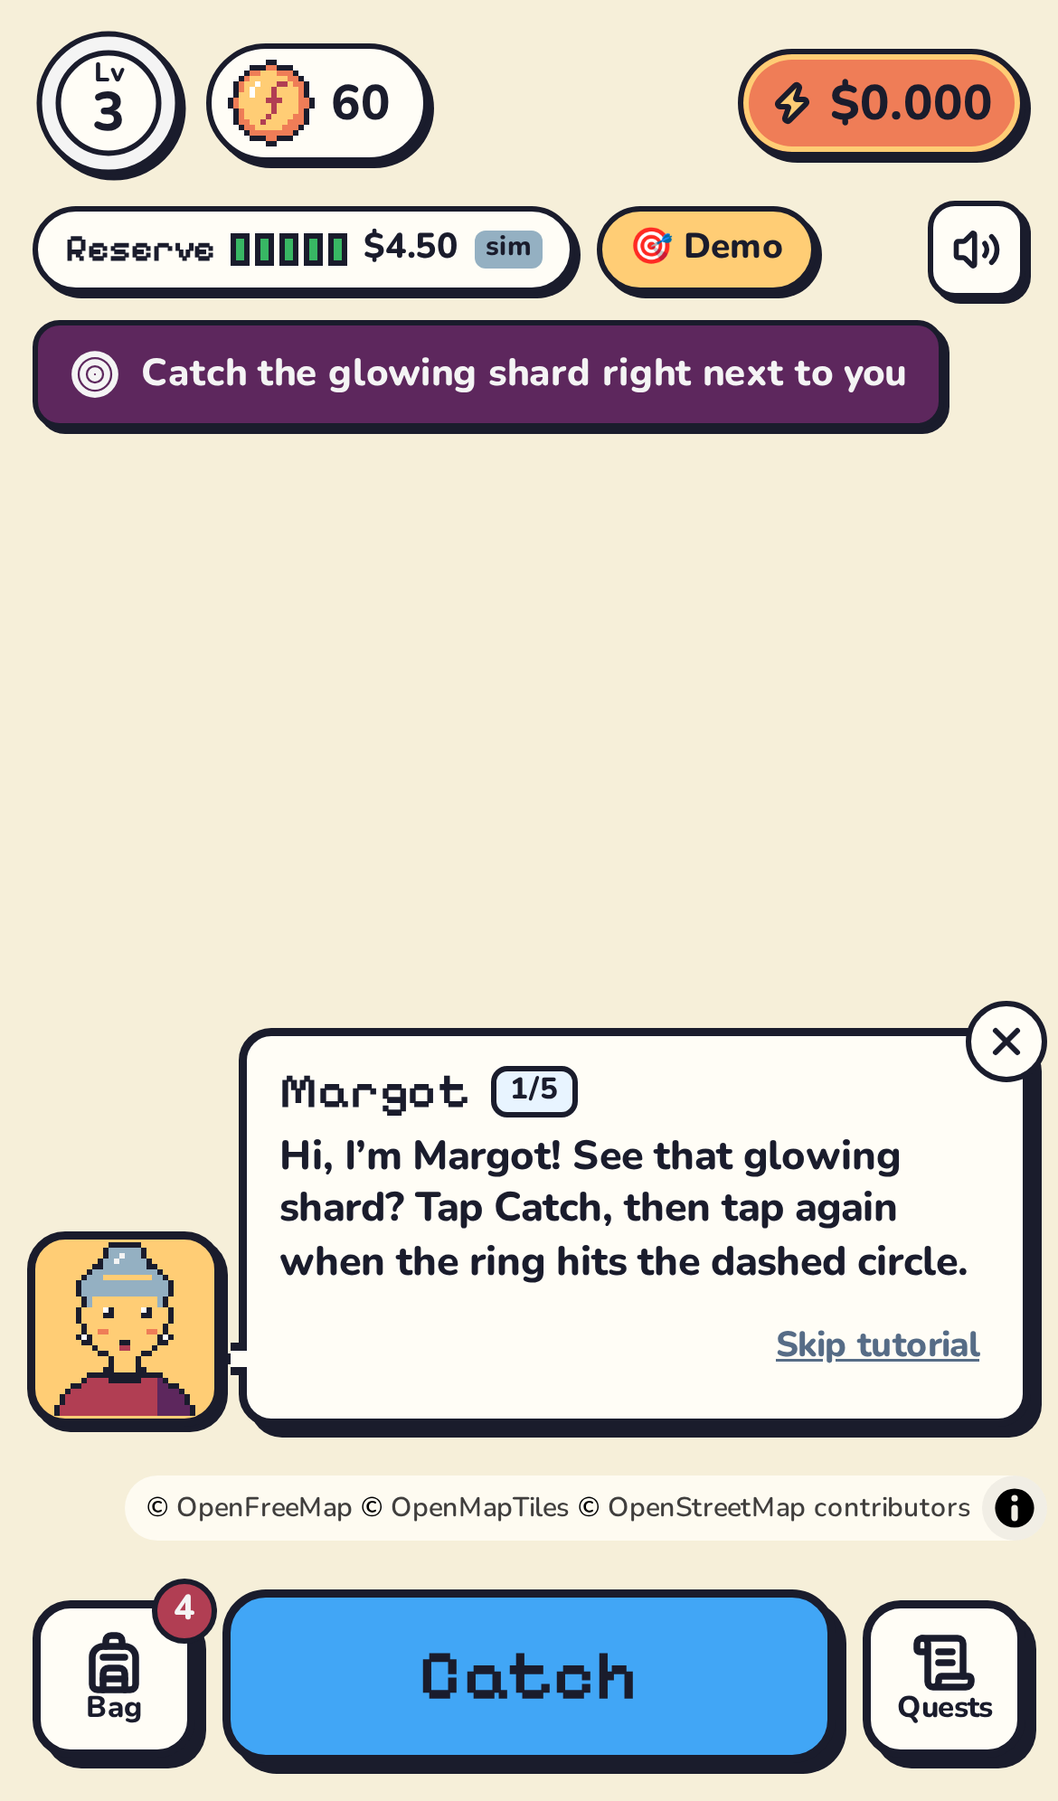
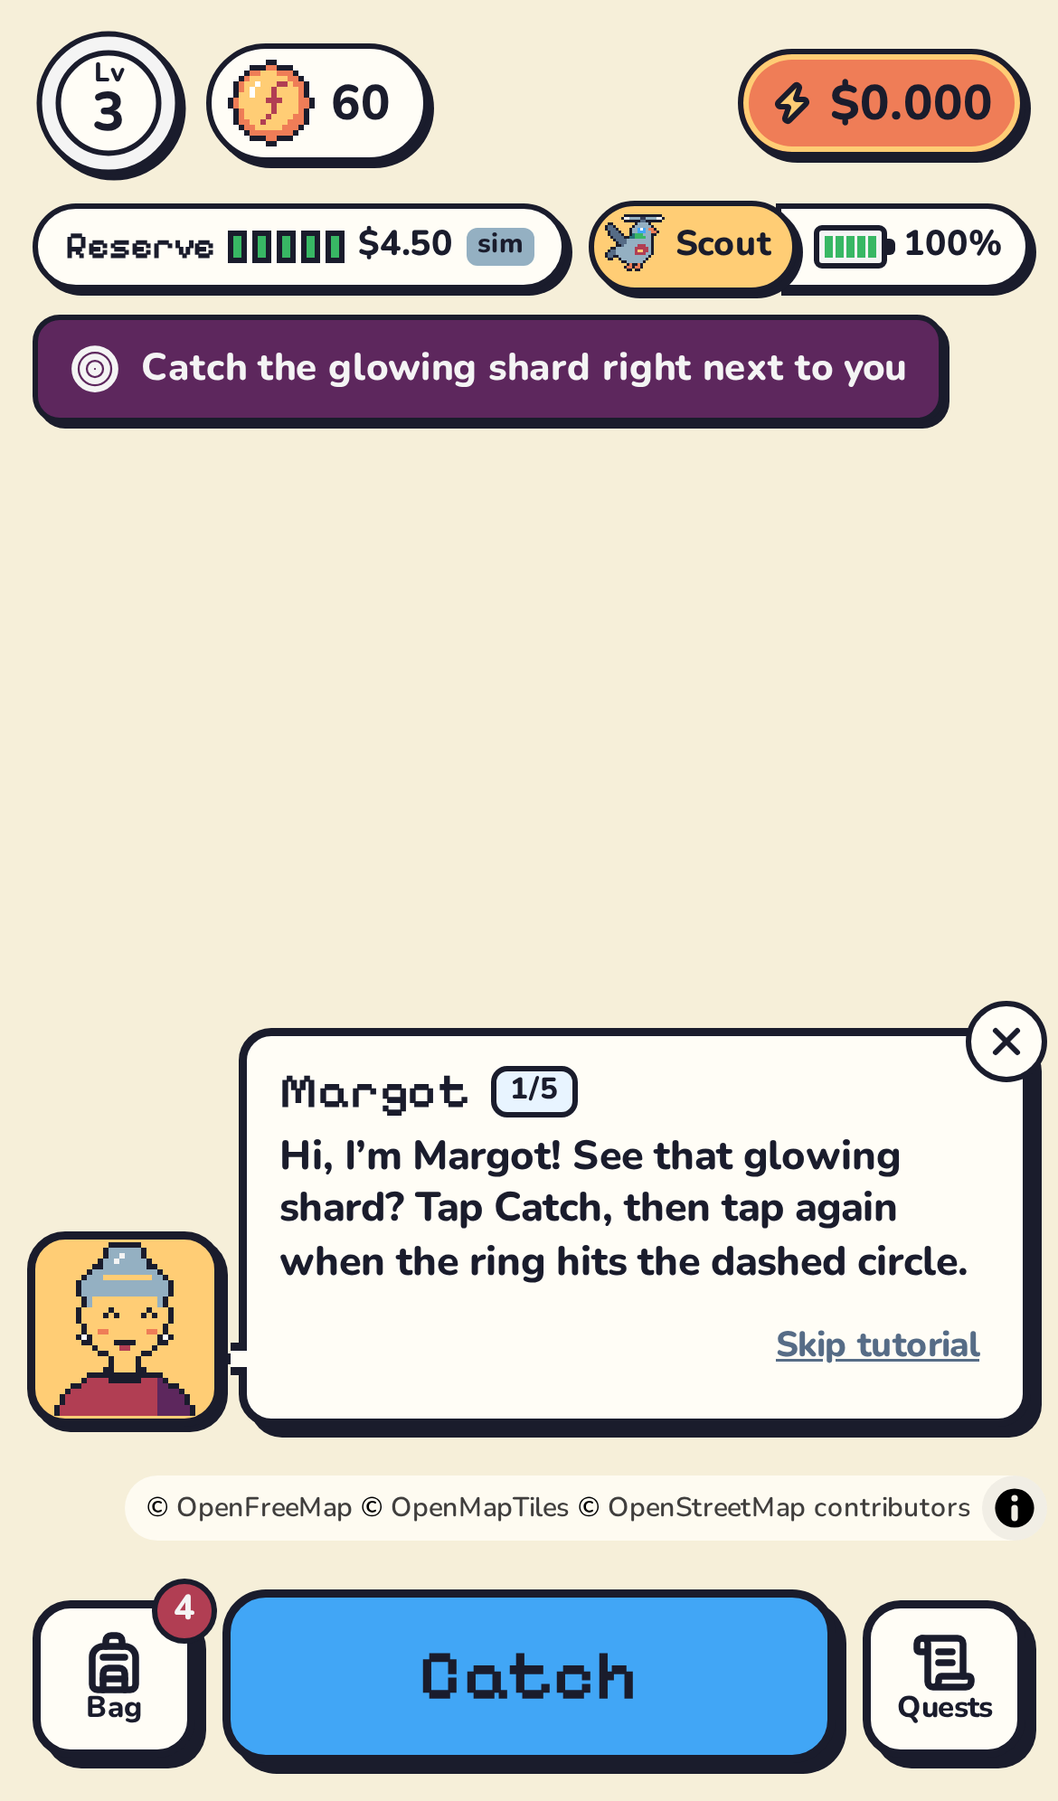
Remote Scout : HUD batterie + badge, Splash à deux modes, Dash ; e2e anywhere.spec (Lisbonne procédurale, batterie), E2E_PORT ; docs et captures

Changed region(s): [[0.0308, 0.0934, 0.9846, 0.249]]

diff --git a/e2e/anywhere.spec.ts b/e2e/anywhere.spec.ts
@@ -1,0 +1,125 @@
+// Monde « partout » et Remote Scout.
+// 1. Joueur GPS à Lisbonne : Overpass injoignable (config e2e) → quartier procédural généré en fond (« Scouting… »),
+//    puis capture et vente chez un marchand généré.
+// 2. Remote Scout : la batterie se vide (Dash), le serveur refuse le vol de trop, le Scout est cloué au sol, puis repart.
+import { offsetM } from '@tokengo/shared';
+import { proceduralRegion, regionOf } from '../apps/server/src/game/worldgen.ts';
+import { expect, test, drag, open, pageErrors, shot, startGuest, tapOnTarget, tg, walk, type TG } from './helpers.ts';
+
+const LISBON = { lat: 38.7107, lng: -9.1365 };
+// repli procédural déterministe : on démarre 10 m au sud d'un marchand généré (pas besoin de marcher en GPS simulé)
+const MARKET = proceduralRegion(regionOf(LISBON.lat, LISBON.lng)).nodes.filter((n) => n.kind === 'market')[0]!;
+const START = offsetM(MARKET, 0, -10);
+
+interface ScoutTG extends TG { scout: { battery: number; at: number; grounded: boolean } | null; world: TG['world'] & { region?: { status: string; source: string | null } } }
+const stg = (page: import('@playwright/test').Page) => tg(page) as Promise<ScoutTG>;
+
+test.describe('play anywhere (real GPS, outside Paris)', () => {
+  test.use({ geolocation: { latitude: START.lat, longitude: START.lng, accuracy: 8 } });
+
+  test('a GPS player in Lisbon: neighbourhood is scouted, then catch + sell work there', async ({ page }) => {
+    test.setTimeout(90_000);
+    const errors = pageErrors(page);
+    expect(regionOf(START.lat, START.lng)).toBe(MARKET.region);
+    await page.goto('/');
+    await expect(page.getByTestId('mode-explainer')).toContainText('Remote Scout lets you try it from your couch');
+    await page.getByTestId('play-guest').click();
+    await page.getByTestId('allow-location').click();
+    await expect(page.getByTestId('map')).toBeVisible();
+    // 1ʳᵉ réponse /api/world : génération lancée en fond
+    await expect(page.getByTestId('scouting')).toBeVisible({ timeout: 15_000 });
+    await expect(page.getByTestId('mode-badge')).toHaveText(/Walking/);
+    await shot(page, 'anywhere-01-scouting');
+    await expect(page.getByTestId('scouting')).toBeHidden({ timeout: 15_000 });
+    await page.waitForFunction(() => {
+      const s = (window as unknown as { __tg: () => ScoutTG }).__tg();
+      return s.world?.region?.status === 'ready' && s.world.nodes.some((n) => n.kind === 'market');
+    });
+    const s = await stg(page);
+    expect(s.world!.region).toMatchObject({ status: 'ready', source: 'procedural' });
+    expect(s.world!.nodes.map((n) => n.id)).toContain(MARKET.id);
+    expect(s.world!.nodes.some((n) => n.kind === 'forge')).toBe(true);
+    await expect(page.getByText(/Your neighbourhood is live/)).toBeVisible();
+    await page.waitForTimeout(1200); // tuiles de la carte (OpenFreeMap, planète entière)
+    await shot(page, 'anywhere-02-lisbon-live');
+
+    // capture : l'éclat du tutoriel apparaît à 20 m (10 m au nord du marchand) — dans le rayon d'action
+    await expect(page.getByTestId('action-btn')).toHaveText(/Catch/);
+    await page.getByTestId('action-btn').click();
+    await expect(page.getByTestId('catch-screen')).toBeVisible();
+    for (let i = 0; i < 3 && !(await page.getByTestId('catch-result').isVisible()); i++) {
+      await tapOnTarget(page);
+      await page.getByTestId('catch-result').waitFor({ timeout: 2500 }).catch(() => {});
+    }
+    await expect(page.getByTestId('catch-result')).toContainText(/\+\d+ \w+ Shard/);
+    await page.getByTestId('catch-continue').click();
+    await expect.poll(async () => (await stg(page)).me!.shards.deepseek).toBeGreaterThanOrEqual(1);
+
+    // vente au marchand généré (vrai geste de glisser)
+    const node = (await stg(page)).world!.nodes.find((n) => n.id === MARKET.id)!;
+    expect(await open(page, node.merchant!.id)).toBe(true);
+    await expect(page.getByTestId('merchant-sheet')).toBeVisible();
+    await expect(page.getByTestId('sell-deepseek')).toBeEnabled();
+    const before = (await stg(page)).me!;
+    await page.getByTestId('sell-deepseek').click();
+    await expect(page.getByTestId('trade-panel')).toBeVisible();
+    await page.waitForTimeout(700); // fin de l'animation de la feuille
+    await shot(page, 'anywhere-03-sell');
+    await drag(page, '[data-testid="slide-confirm-knob"]', 320);
+    await expect.poll(async () => (await stg(page)).me!.shards.deepseek).toBe(before.shards.deepseek - 1);
+    expect((await stg(page)).me!.flux).toBeGreaterThan(before.flux);
+    await expect(page.getByTestId('toast').first()).toContainText(/Sold 1/);
+    expect(errors).toEqual([]);
+  });
+});
+
+test('Remote Scout: the battery drains, the server grounds the scout, then it flies again', async ({ page }) => {
+  test.setTimeout(150_000);
+  const errors = pageErrors(page);
+  await page.goto('/?demo=1');
+  await expect(page.getByTestId('play-guest')).toContainText('Remote Scout');
+  await expect(page.getByTestId('play-gps')).toContainText('Play for real');
+  await page.waitForTimeout(600); // fin de l'animation d'entrée
+  await shot(page, 'scout-01-splash');
+  await startGuest(page, null);
+  await expect(page.getByTestId('mode-badge')).toHaveText(/Scout/);
+  await expect(page.getByTestId('battery-pct')).toHaveText('100%');
+  const home = (await stg(page)).position!;
+  await page.getByText('Skip tutorial').click();
+  await page.waitForTimeout(2500); // tuiles de la carte
+  await shot(page, 'scout-02-hud');
+
+  // Dash de 1,4 km (> 40 km/h) : −63 %
+  const far = offsetM(home, 0, 1400);
+  await walk(page, far);
+  await expect.poll(async () => Math.round((await stg(page)).scout!.battery)).toBeLessThanOrEqual(38);
+  // Dash vers ~5 % restants, puis le Dash de trop : refusé par le serveur, Scout au sol
+  const left = async () => { const sc = (await stg(page)).scout!; return sc.battery + ((Date.now() - sc.at) / 60_000) * 8; };
+  const near = offsetM(far, ((await left()) - 5) / 45 * 1000, 0);
+  await walk(page, near);
+  const refused = page.waitForResponse((r) => r.url().endsWith('/api/move') && r.request().method() === 'POST');
+  await page.evaluate(([lat, lng]) => (window as unknown as { __tgWalk: (a: number, b: number) => void }).__tgWalk(lat!, lng!), [offsetM(near, 0, 400).lat, offsetM(near, 0, 400).lng]);
+  const body = (await (await refused).json()) as { refused?: string; at?: { lat: number; lng: number } };
+  expect(body.refused).toBe('BATTERY_EMPTY');
+  await expect(page.getByTestId('scout-grounded')).toBeVisible();
+  await expect(page.getByTestId('scout-grounded')).toContainText(/flies again in \d:\d\d/);
+  await expect(page.getByText('Battery empty — your scout is recharging.')).toBeVisible();
+  // la position revient à la dernière position acceptée
+  await expect.poll(async () => { const p = (await stg(page)).position!; return Math.abs(p.lat - near.lat) + Math.abs(p.lng - near.lng); }).toBeLessThan(1e-6);
+  await shot(page, 'scout-03-grounded');
+  // au sol, le client ne tente même plus de voler
+  let sent = 0;
+  const count = (r: import('@playwright/test').Request) => { if (r.url().endsWith('/api/move')) sent++; };
+  page.on('request', count);
+  await page.evaluate(([lat, lng]) => (window as unknown as { __tgWalk: (a: number, b: number) => void }).__tgWalk(lat!, lng!), [offsetM(near, 30, 0).lat, offsetM(near, 30, 0).lng]);
+  await page.waitForTimeout(800);
+  page.off('request', count);
+  expect(sent).toBe(0);
+
+  // recharge (8 %/min) : repart à 10 %
+  await expect(page.getByTestId('scout-grounded')).toBeHidden({ timeout: 90_000 });
+  await walk(page, offsetM(near, 30, 0));
+  await expect.poll(async () => (await stg(page)).scout!.grounded).toBe(false);
+  await expect(page.getByTestId('battery-pct')).toHaveText(/^\d+%$/);
+  expect(errors).toEqual([]);
+});

diff --git a/apps/web/src/hud/Hud.tsx b/apps/web/src/hud/Hud.tsx
@@ -53,11 +53,15 @@ function ComboBar() {
   );
 }
 
-/** Badge de mode : Remote Scout (pigeon-drone) ou marche réelle (GPS). */
+/** Badge de mode : marche réelle (GPS) ou Remote Scout (pigeon-drone, avec sa batterie). */
 function ModeBadge({ demo }: { demo: boolean }) {
-  return demo
-    ? <Pill className={s.scoutBadge} testId="mode-badge"><Sprite def={SCOUT_SPRITE} scale={1} anim /> Scout</Pill>
-    : <Pill className={s.walkBadge} testId="mode-badge"><Footprints size={15} strokeWidth={2.8} /> Walking</Pill>;
+  if (!demo) return <Pill className={s.walkBadge} testId="mode-badge"><Footprints size={15} strokeWidth={2.8} /> Walking</Pill>;
+  return (
+    <span className={s.scoutGroup}>
+      <Pill className={s.scoutBadge} testId="mode-badge"><Sprite def={SCOUT_SPRITE} scale={1} anim /> Scout</Pill>
+      <BatteryPill />
+    </span>
+  );
 }
 
 /** Batterie du Scout (prédiction locale à 1 Hz ; le serveur reste autoritaire) + bandeau « au sol ». */
@@ -153,11 +157,11 @@ export function Hud({ onAction }: { onAction: (t: Target) => void }) {
             </Pill>
           ) : null}
           <ModeBadge demo={demo} />
-          {demo ? <BatteryPill /> : null}
           {gps === 'weak' ? <Pill className={s.warn}>Weak GPS</Pill> : null}
-          <button type="button" className={s.mute} aria-label={muted ? 'Unmute' : 'Mute'} onClick={() => { setMuted(!muted); setMutedState(!muted); }}>
+          {/* en Scout, la place va à la batterie (le son reste dans le menu) */}
+          {demo ? null : <button type="button" className={s.mute} aria-label={muted ? 'Unmute' : 'Mute'} onClick={() => { setMuted(!muted); setMutedState(!muted); }}>
             {muted ? <VolumeX size={18} strokeWidth={2.5} /> : <Volume2 size={18} strokeWidth={2.5} />}
-          </button>
+          </button>}
         </div>
         {serverDown ? <div className={s.banner}><WifiOff size={16} /> Offline — reconnecting…</div> : null}
         {inTransit ? <div className={s.banner}>In transit — catching paused</div> : null}

diff --git a/apps/web/src/hud/Hud.module.css b/apps/web/src/hud/Hud.module.css
@@ -13,18 +13,21 @@
 .fluxPill { font-size: 18px; min-height: 40px; padding: 4px 12px 4px 6px; }
 .creditPill { margin-left: auto; font-size: 18px; min-height: 40px; background: var(--orange); border-color: var(--ink); box-shadow: 0 0 0 2px var(--sun) inset, var(--shadow-hard-s); color: var(--ink); }
 
-.reserve { font-size: 13px; gap: 6px; }
+.reserve { font-size: 13px; gap: 5px; }
 .resLabel { font-family: var(--font-pixel); font-size: 14px; }
 .resBar { display: inline-flex; gap: 2px; }
 .resBar i, .comboTrack i { width: 7px; height: 12px; background: var(--white); border: 2px solid var(--ink); }
 .resBar i.on { background: var(--green); }
 .sim { font-size: 10px; background: var(--mist); border-radius: 4px; padding: 0 4px; }
-.scoutBadge { background: var(--sun); font-size: 13px; gap: 4px; padding-left: 4px; }
+.scoutGroup { display: inline-flex; align-items: center; }
+.scoutGroup > :first-child { position: relative; z-index: 1; padding: 3px 8px 3px 3px; gap: 3px; }
+.scoutGroup > :last-child { margin-left: -8px; padding-left: 12px; border-radius: 0 999px 999px 0; }
+.scoutBadge { background: var(--sun); font-size: 13px; }
 .walkBadge { background: var(--lime); font-size: 13px; gap: 4px; }
-.battery { font-size: 13px; gap: 5px; padding: 3px 8px; }
+.battery { font-size: 13px; gap: 6px; padding: 3px 9px; }
 .batBody { position: relative; display: inline-flex; gap: 1px; padding: 2px; border: 2px solid var(--ink); border-radius: 3px; background: var(--white); }
 .batBody::after { content: ''; position: absolute; right: -5px; top: 3px; width: 3px; height: 6px; background: var(--ink); border-radius: 0 2px 2px 0; }
-.batBody i { width: 4px; height: 8px; background: transparent; }
+.batBody i { width: 3px; height: 8px; background: transparent; }
 .batHigh i.on { background: var(--green); }
 .batMid i.on { background: var(--sun); }
 .batLow i.on { background: var(--berry); }

diff --git a/apps/web/src/screens/Splash.tsx b/apps/web/src/screens/Splash.tsx
@@ -84,13 +84,13 @@ export function Splash() {
   const gpsBtn = (primary: boolean) => (
     <Button variant={primary ? 'gold' : 'secondary'} size={primary ? 'l' : 'm'} block onClick={() => void play(primary ? 'auto' : 'gps')}
       loading={busy === 'gps'} testId={primary ? 'play-guest' : 'play-gps'}>
-      <Footprints size={primary ? 22 : 20} /> Play for real <small className={s.btnSub}>GPS</small>
+      <Footprints size={primary ? 22 : 20} /> Play for real · GPS
     </Button>
   );
   const scoutBtn = (primary: boolean) => (
     <Button variant={primary ? 'gold' : 'secondary'} size={primary ? 'l' : 'm'} block onClick={() => void play(primary ? 'auto' : 'demo')}
       loading={busy === 'demo'} testId={primary ? 'play-guest' : 'play-scout'}>
-      <Sprite def={SCOUT} scale={1} anim /> Remote Scout <small className={s.btnSub}>play from anywhere</small>
+      <Sprite def={SCOUT} scale={primary ? 2 : 1} anim /> Remote Scout
     </Button>
   );
 

diff --git a/scripts/collect-shots.ts b/scripts/collect-shots.ts
@@ -4,6 +4,7 @@ import { copyFileSync, existsSync, mkdirSync } from 'node:fs';
 const PICK = [
   '01-splash', '02-map', 'catch-01-lock-on', '03-catch-result', '04-relay', '05-merchant-why', 'market-02-quote',
   'market-04-closing', 'forge-02-ready', '07-credit-ticket', '08-playground', 'lab-01-flood', 'pulse-02-ticker',
+  'scout-01-splash', 'scout-02-hud', 'scout-03-grounded', 'anywhere-01-scouting', 'anywhere-02-lisbon-live',
 ];
 mkdirSync('docs-assets/shots', { recursive: true });
 let n = 0;

diff --git a/apps/web/src/screens/Splash.module.css b/apps/web/src/screens/Splash.module.css
@@ -37,6 +37,5 @@
 .locText { margin: 0; text-align: center; font-weight: 700; }
 .heroScout { position: absolute; top: -78px; right: 18px; animation: hover 1.6s ease-in-out infinite; }
 @keyframes hover { 50% { transform: translate(-6px, -10px); } }
-.btnSub { font-size: 12px; font-weight: 800; opacity: .75; margin-left: 2px; }
 .modeNow { margin: -4px 0 0; text-align: center; font-weight: 800; font-size: 14px; color: var(--slate); }
 .small b { color: var(--plum); }

diff --git a/Docs/PROGRESS.md b/Docs/PROGRESS.md
@@ -2,6 +2,23 @@
 
 Mettre à jour à la fin de chaque bloc de travail. Le plus récent en haut.
 
+## 2026-11-07 (jour) — Jouer partout + Remote Scout
+- **Fait** :
+  - **Monde « partout »** : un joueur GPS hors de Paris déclenche la génération de son quartier (cellule H3 r7) en fond — Overpass
+    (2 miroirs, budget 35 s, User-Agent poli) → même sélection que Paris (code extrait dans `game/worldgen.ts`, `paris.json` reconstruit à
+    l'identique), sinon repli procédural déterministe ; persistance `regions` (migration 005), marchands semés comme à Paris, caps
+    300/jour et 12/jour/IP. UI : carte « Scouting your neighbourhood… » puis toast « Your neighbourhood is live ». Vérifié en réel à Lisbonne
+    (823 POI → 2 forges, 8 marchands, 63 relais ; `node apps/server/scripts/region-spike.ts`).
+  - **Remote Scout** remplace Demo Walk : pigeon-coursier à hélice (nouveau sprite), batterie et plafond de vitesse vérifiés par le serveur
+    (`economy/scout.ts`, constantes `SCOUT`), badge Scout/Walking + batterie dans le HUD, « Dash » (ex-Jump) avec coût affiché, Splash à deux
+    choix (« Remote Scout » / « Play for real · GPS ») + « TokenGo is meant to be played walking — Remote Scout lets you try it from your couch ».
+    Récompenses inchangées pour les comptes démo.
+  - Tests : 131 unitaires/API (+18 : batterie, génération, fallback, caps, persistance, partie complète à Lisbonne), e2e 20/20
+    (nouveau `e2e/anywhere.spec.ts`), `E2E_PORT` pour lancer plusieurs suites en parallèle.
+- **Limites connues** : les miroirs Overpass publics sont lents (20–90 s mesurés) → au-delà de 35 s le quartier est procédural (définitif pour
+  cette région) ; une r7 en bordure de Paris compte comme « Paris » même si sa partie hors Paris est vide.
+- **Prochaine étape** : déploiement HTTPS (GPS réel), tester un vrai quartier hors Paris au téléphone.
+
 ## 2026-11-07 (nuit) — Fin du build : produit complet, vérifié
 - **Fait depuis le bloc précédent** : revue sécurité indépendante → 9 correctifs (courses sur les octrois, XFF, Judge Pool réservé aux passes démo,
   tombstones, plafonds SSE…) avec tests de régression ; 18 parcours e2e (capture, marché, PRICE_MOVED, forge, anti-triche, Lab, Pulse SSE,

diff --git a/Docs/00-INDEX.md b/Docs/00-INDEX.md
@@ -61,3 +61,8 @@ https://docs.near.ai/llms.txt · https://docs.near-intents.org/llms.txt · skill
 | 2026-11-06 | Connexion Google : seul un invité GPS est promu ; un invité démo (avec ou sans pass) repart d'un compte Google neuf | Le mode démo (kit, téléportation, pas de contrôle de vitesse) ne doit pas se convertir en compte éligible au Main Pool avec sa progression |
 | 2026-11-06 | `DEMO_TOKEN` comparé à temps constant ; 1 compte pass démo par IP hachée et par jour (429 sinon) | Un lien de démo qui fuit ne doit pas fabriquer des comptes Judge Pool à la chaîne ; pas de fuite du token par timing |
 | 2026-11-06 | Suppression de compte : tombstone hachée (sub + email normalisé, flag, bonus de bienvenue reçu) | Supprimer puis recréer son compte Google ne doit ni effacer un flag anti-triche ni redonner le bonus de bienvenue ; seuls des hachés salés sont gardés (RGPD) |
+| 2026-11-07 | Monde « partout » : région = cellule H3 r7 générée en fond depuis Overpass (budget 35 s, 2 miroirs), sinon procédurale déterministe ; table `regions` ; caps 300/jour, 12/jour/IP | Les juges et la plupart des joueurs ne sont pas à Paris : le GPS réel doit marcher partout sans jamais bloquer la requête ni dépendre du réseau |
+| 2026-11-07 | Une seule Réserve mondiale (pas de ville par région) | Poches, cap Forge 5,5 %/j et invariant de solvabilité sont déjà globaux : l'invariant reste vrai quel que soit le nombre de régions |
+| 2026-11-07 | « Demo Walk » → **Remote Scout** : pigeon-drone, batterie 30 %/km + 8 %/min, plafond 40 km/h (Dash × 1,5, ≤ 1,5 km), vérifiés par le serveur | Le jeu se joue en marchant ; jouer depuis chez soi devient un mode explicite et limité, pas une béquille de démo. Mêmes récompenses que l'ancien mode démo (aucune nouvelle porte vers le réel) |
+| 2026-11-07 | Vol refusé = réponse 200 `{ refused, at }` (position serveur inchangée) plutôt qu'une erreur | Le client recale le Scout et affiche la batterie sans casser la boucle d'envoi ; `__tgWalk` des e2e reste un Dash |
+| 2026-11-07 | `E2E_PORT` (défaut 8788) pour Playwright ; Overpass injoignable en e2e (repli procédural) | Plusieurs suites en parallèle sur la même machine ; aucun test ne dépend du réseau |

diff --git a/README.md b/README.md
@@ -12,12 +12,12 @@ Built for the NEAR HACKATHON — tracks **games** and **agents**.
 | | | | |
 |---|---|---|---|
 | ![](docs-assets/shots/02-map.png) | ![](docs-assets/shots/catch-01-lock-on.png) | ![](docs-assets/shots/05-merchant-why.png) | ![](docs-assets/shots/07-credit-ticket.png) |
-| Map (Demo Walk) | Lock-on catch | "Why this price?" | Real credit ticket |
+| Map (Remote Scout) | Lock-on catch | "Why this price?" | Real credit ticket |
 
 ---
 
 ## Live demo
-- **Play:** _(URL added at deploy time)_ → "Play as guest" (works without GPS: *Demo Walk* lets you tap the map to walk).
+- **Play:** _(URL added at deploy time)_ → "Play for real · GPS" (works anywhere: outside Paris the server maps your neighbourhood from OpenStreetMap on the fly) or "Remote Scout" (no GPS needed: fly a battery-limited courier pigeon over Paris from your couch).
 - **Judges' pass:** `/?demo=1&k=<DEMO_TOKEN>` (link given in the submission) → a level-7 demo account with a full bag, to see
   Prism/Aura compiles and merchant rescues in one minute, paid in **real** credits from the Judge pool ($0.20 max per account).
 - **City Pulse** (`/pulse`, no account): live ticker, Paris Shard Index, reserve, merchants going bankrupt, on-chain settlements.

diff --git a/Docs/02-game-design.md b/Docs/02-game-design.md
@@ -156,7 +156,7 @@ En mode Démo, le joueur démarre avec un kit (niveau 3, 60 ƒ, 4 éclats) pour 
 
 ## 8. Modes de déplacement
 - **GPS (Explorer)** : `watchPosition` haute précision, avatar orienté (boussole si dispo), traînée lumineuse.
-- **Demo Walk** : *tap-to-walk* — on touche un point de la carte, l'avatar s'y rend à **30 km/h** en suivant une ligne droite. **Jump** : en mode démo, toucher un nœud à < 2 km propose « Jump here » (trajet animé de 3 s)
+- **Remote Scout** (ex-Demo Walk, voir Docs/04 §6 bis : batterie et plafond de vitesse vérifiés par le serveur) : *tap-to-walk* — on touche un point de la carte, l'avatar s'y rend à **30 km/h** en suivant une ligne droite. **Jump** : en mode démo, toucher un nœud à < 2 km propose « Jump here » (trajet animé de 3 s)
   (interpolation côté client, positions envoyées au serveur comme du GPS). Bouton « 🎯 Demo » visible si `?demo=1`, compte
   invité, ou GPS refusé. Les comptes démo sont marqués `mode='demo'` côté serveur : gains réels
   limités au Welcome/Judge Pool. En mode démo, le serveur ne vérifie pas la vitesse (les jumps sont autorisés) mais vérifie toujours les distances d'action.

diff --git a/Docs/10-demo-and-judging.md b/Docs/10-demo-and-judging.md
@@ -30,7 +30,7 @@ Plan imposé :
 11. **License** MIT.
 
 ## 3. Comptes de démo
-- `?demo=1` : force Demo Walk, propose « Play as guest ». Départ : Louvre (Cour Napoléon) — Forge du Louvre à ~150 m, 2 marchands à < 500 m,
+- `?demo=1` : Remote Scout (pigeon-drone à batterie, ex-Demo Walk), bouton principal « Remote Scout ». Départ : Louvre (Cour Napoléon) — Forge du Louvre à ~150 m, 2 marchands à < 500 m,
   éclats garantis autour (le tutoriel les place).
 - **Guest** : peut tout faire ; crédits réels via la First Compile ($0.03, Welcome Pool, après capture + sync + trade) puis le **Judge Pool** du 16 au 18 nov → les juges
   voient une **vraie** clé fonctionner même si le Welcome Pool a été consommé.
